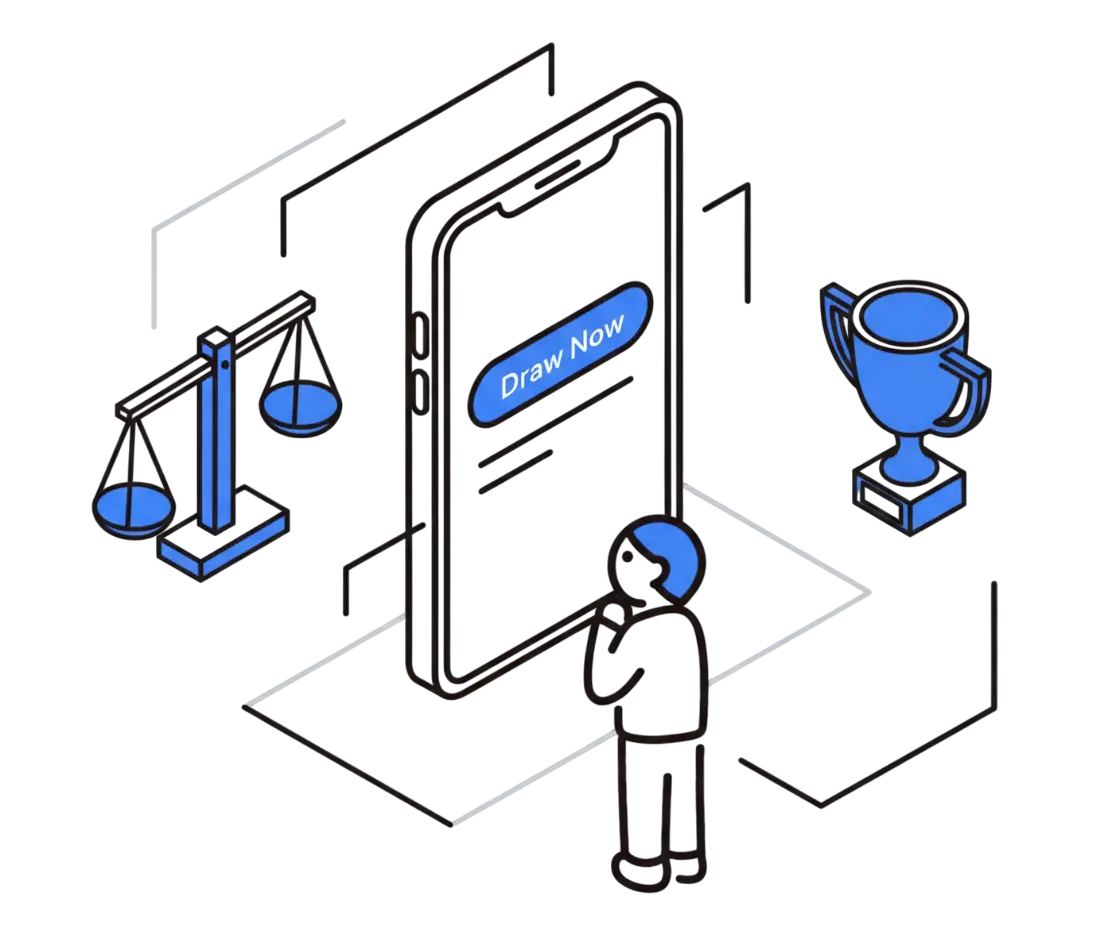
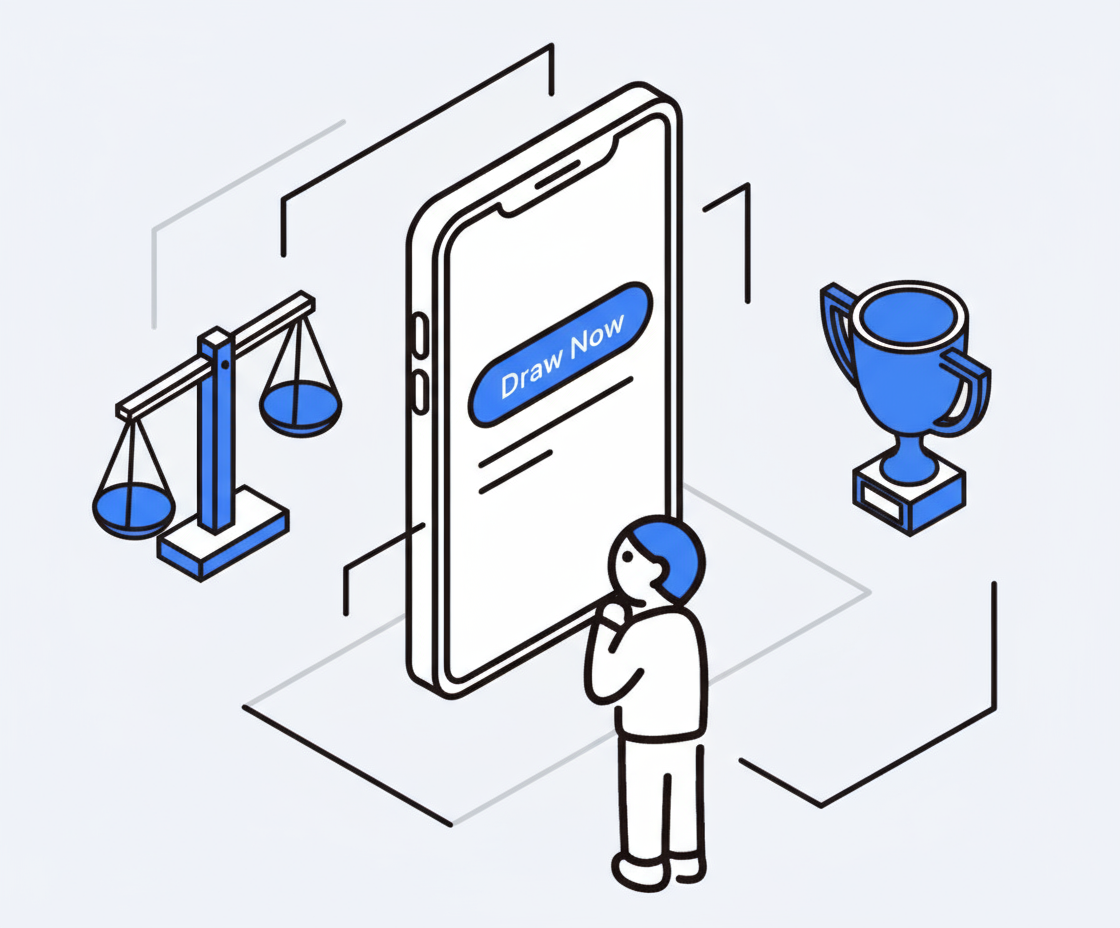
add Google Analytics integration and update sitemap; add new cover images for Instagram giveaway tool

diff --git a/layouts/partials/google_analytics.html b/layouts/partials/google_analytics.html
@@ -1,0 +1,10 @@
+{{- with site.Params.googleAnalytics4 }}
+<script async src="https://www.googletagmanager.com/gtag/js?id={{ . }}"></script>
+<script>
+    window.dataLayer = window.dataLayer || [];
+    function gtag(){dataLayer.push(arguments);}
+    gtag('js', new Date());
+    gtag('config', '{{ . }}');
+</script>
+{{- end }}
+
